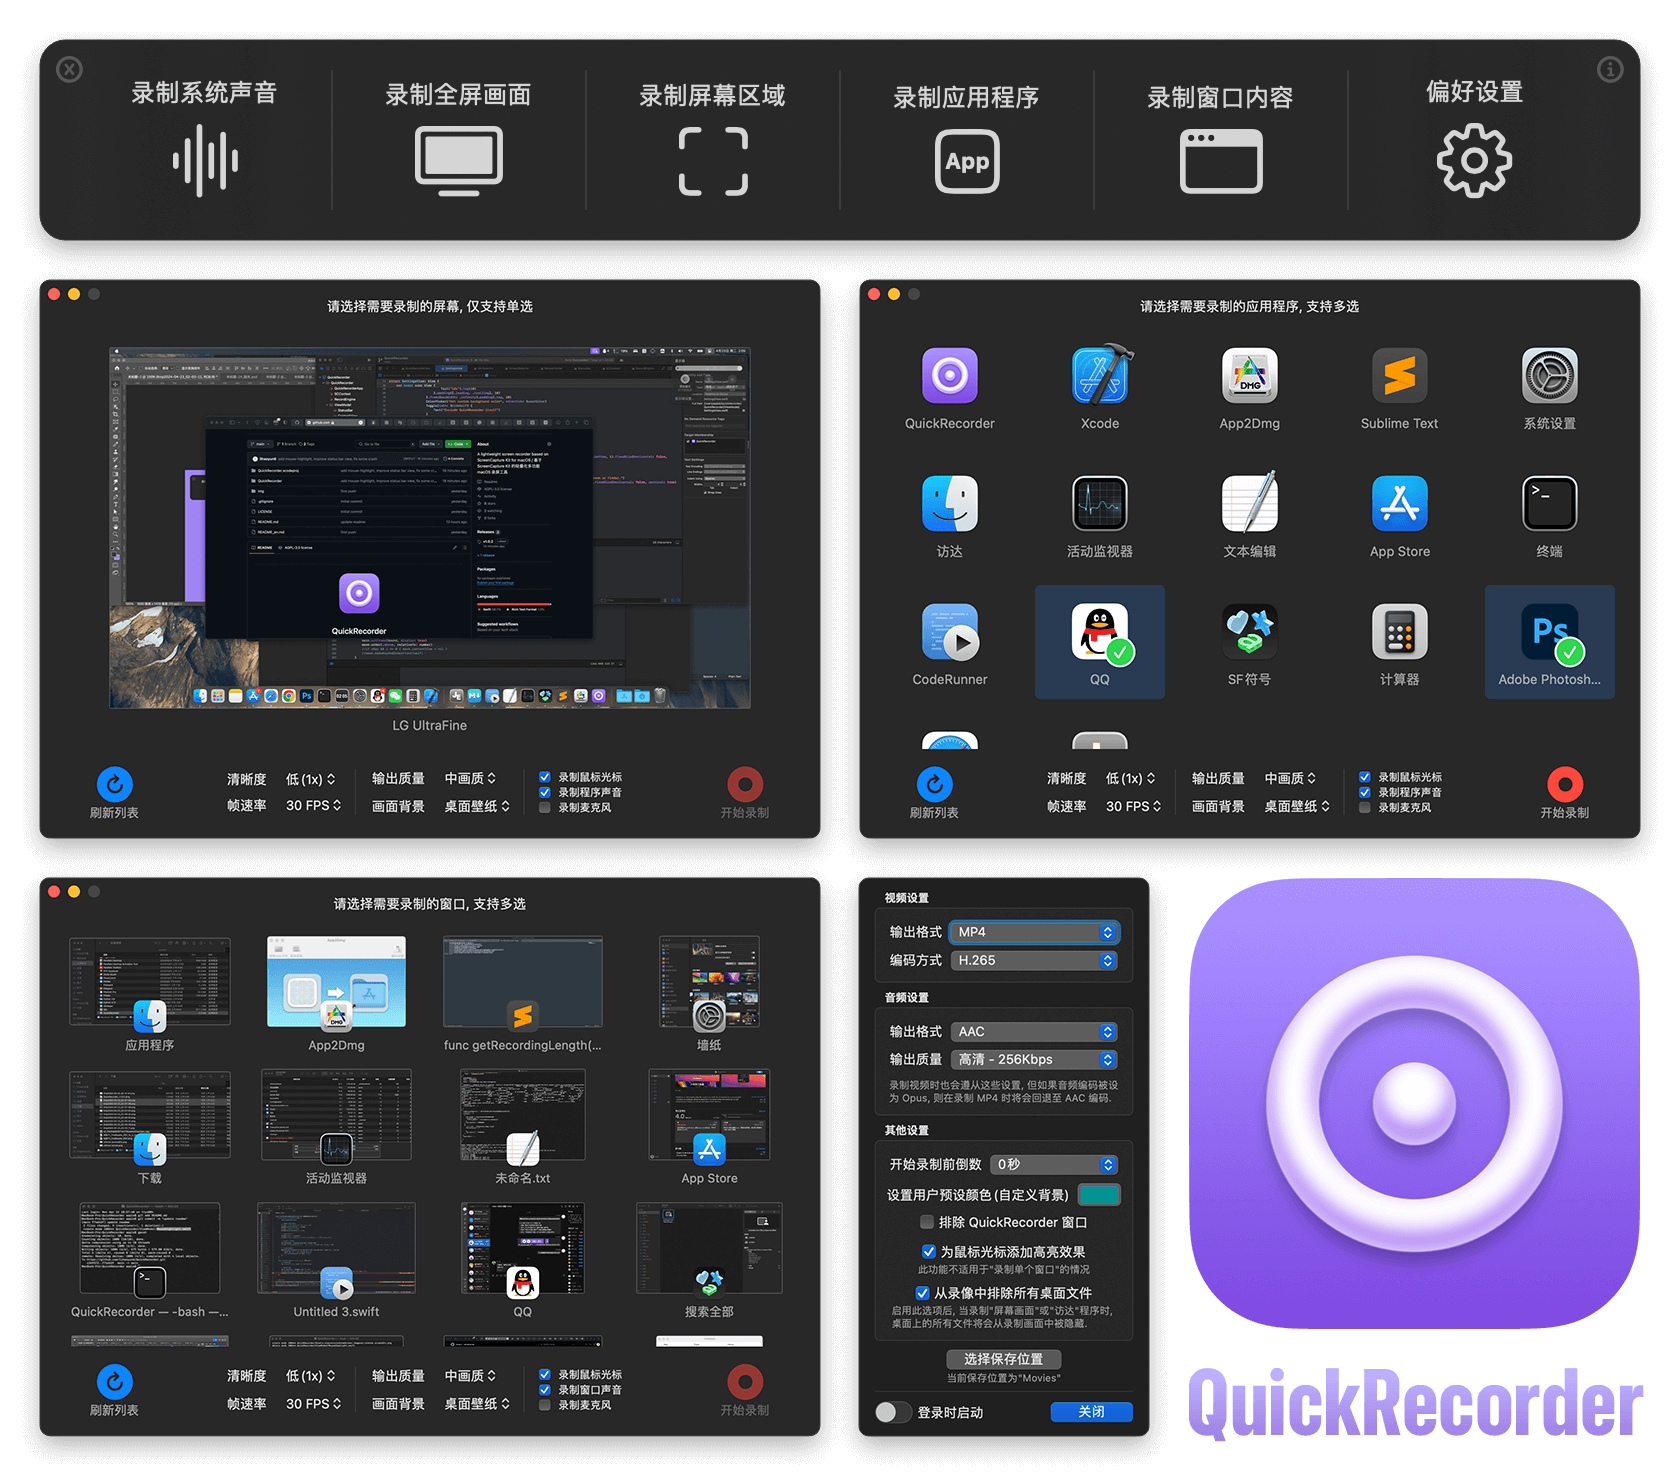
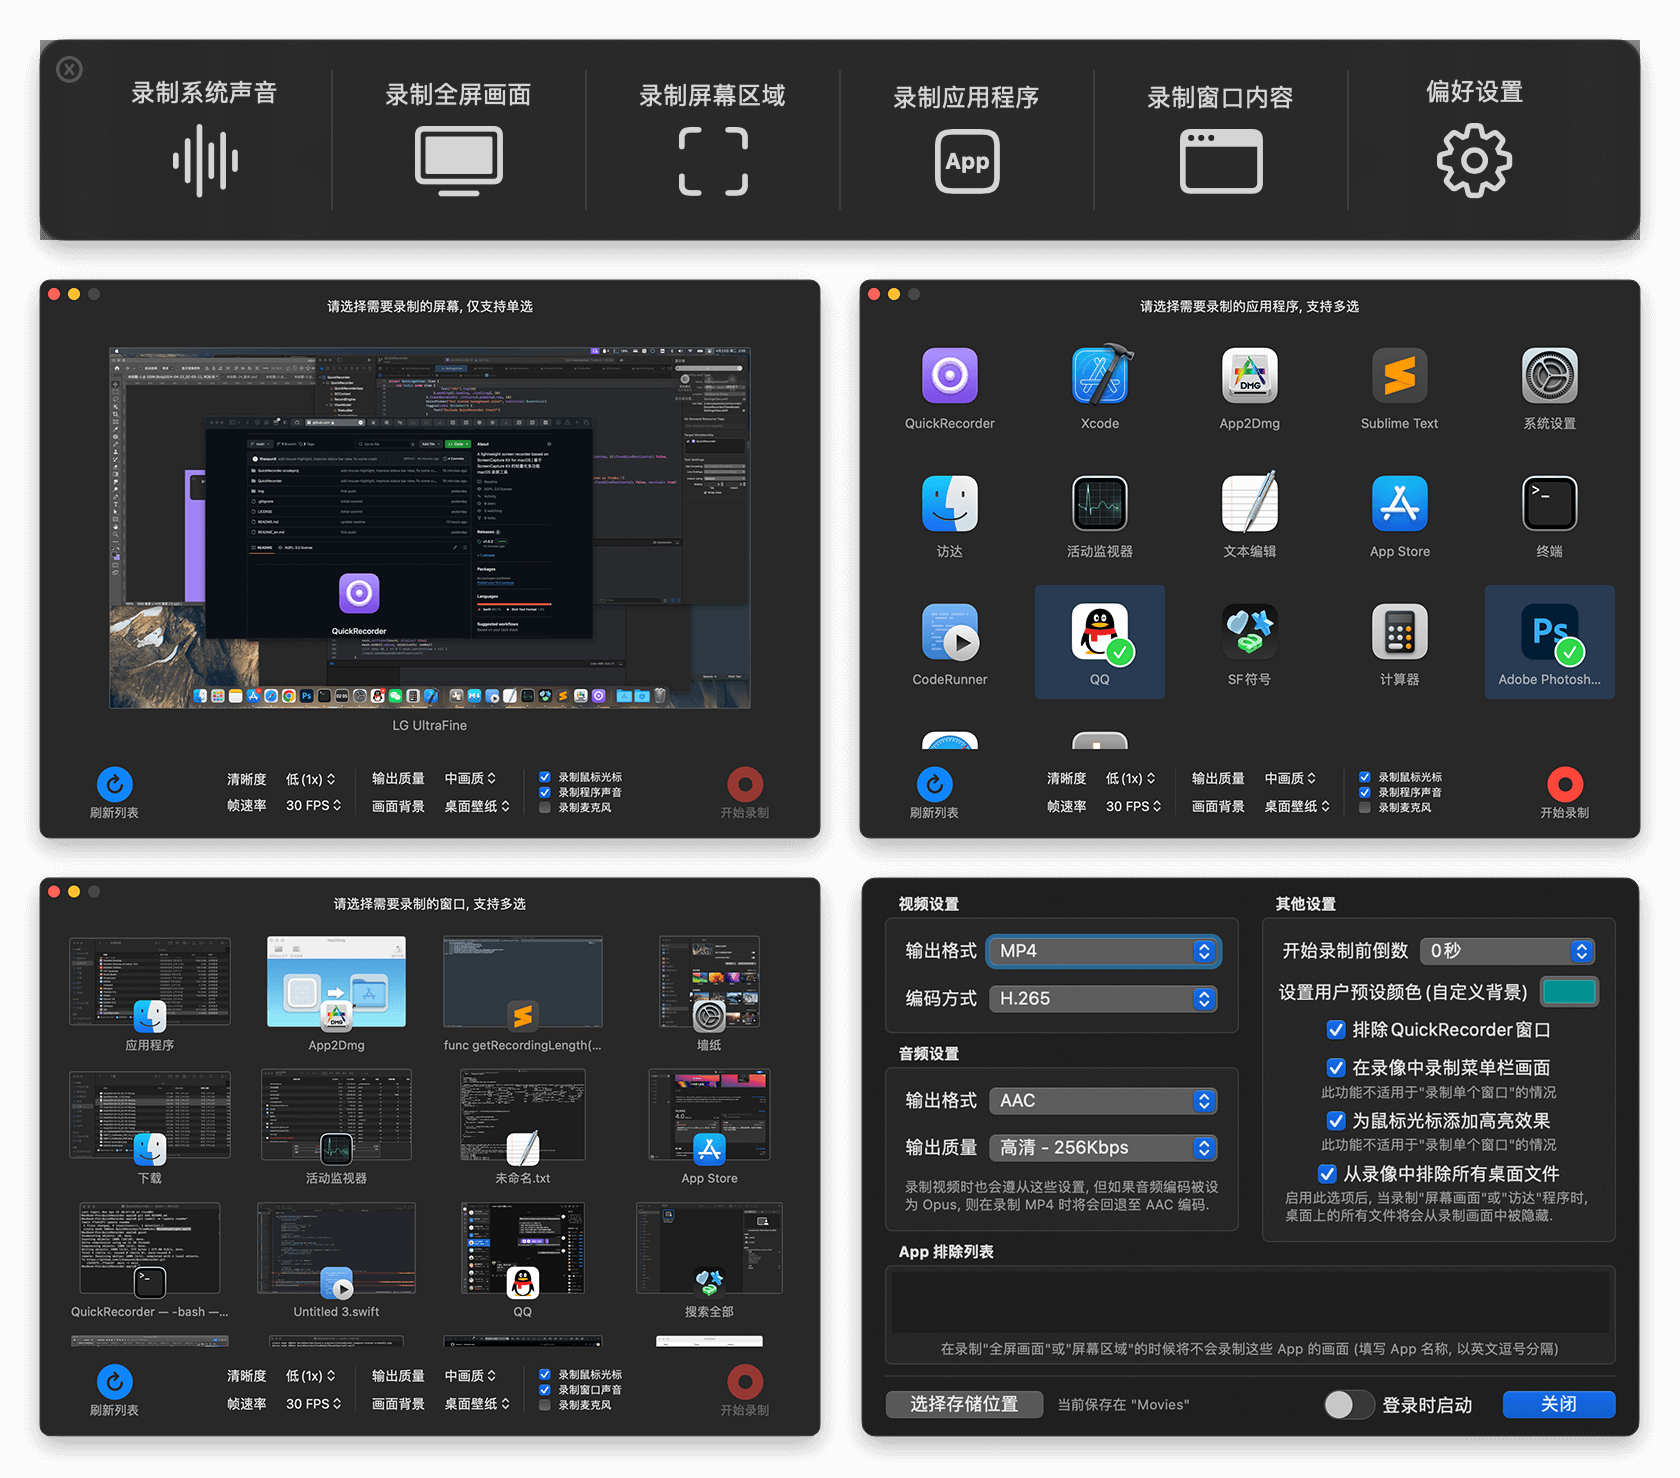
add app blacklist

Changed region(s): [[0.4952, 0.5913, 0.9905, 0.9959]]

diff --git a/QuickRecorder/ViewModel/SettingsView.swift b/QuickRecorder/ViewModel/SettingsView.swift
@@ -12,129 +12,137 @@ struct SettingsView: View {
     @Environment(\.presentationMode) var presentationMode
     @State private var userColor: Color = Color.black
     @State private var launchAtLogin = (SMAppService.mainApp.status == .enabled)
-    @AppStorage("audioFormat")   private var audioFormat: AudioFormat = .aac
-    @AppStorage("audioQuality")  private var audioQuality: AudioQuality = .high
-    @AppStorage("videoFormat")   private var videoFormat: VideoFormat = .mp4
-    @AppStorage("encoder")       private var encoder: Encoder = .h264
-    @AppStorage("hideSelf")      private var hideSelf: Bool = true
-    @AppStorage("countdown")     private var countdown: Int = 0
-    @AppStorage("saveDirectory") private var saveDirectory: String?
-    @AppStorage("hideDesktopFiles") private var hideDesktopFiles: Bool = false
+    @AppStorage("encoder")          private var encoder: Encoder = .h264
+    @AppStorage("videoFormat")      private var videoFormat: VideoFormat = .mp4
+    @AppStorage("audioFormat")      private var audioFormat: AudioFormat = .aac
+    @AppStorage("audioQuality")     private var audioQuality: AudioQuality = .high
+    @AppStorage("hideSelf")         private var hideSelf: Bool = true
+    @AppStorage("countdown")        private var countdown: Int = 0
+    @AppStorage("appBlackList")     private var appBlackList: String = ""
+    @AppStorage("saveDirectory")    private var saveDirectory: String?
     @AppStorage("highlightMouse")   private var highlightMouse: Bool = false
     @AppStorage("includeMenuBar")   private var includeMenuBar: Bool = false
-    
+    @AppStorage("hideDesktopFiles") private var hideDesktopFiles: Bool = false
     
     var body: some View {
         VStack {
-            VStack(alignment: .leading) {
-                GroupBox(label: Text("Video Settings".local).fontWeight(.bold)) {
-                    Form() {
-                        Picker("Format", selection: $videoFormat) {
-                            Text("MOV").tag(VideoFormat.mov)
-                            Text("MP4").tag(VideoFormat.mp4)
-                        }.padding([.leading, .trailing], 10)
-                        Picker("Encoder", selection: $encoder) {
-                            Text("H.264").tag(Encoder.h264)
-                            Text("H.265").tag(Encoder.h265)
-                        }.padding([.leading, .trailing], 10)
-                    }.frame(maxWidth: .infinity).padding(.top, 10).padding(.bottom, 7)
-                }
-                GroupBox(label: Text("Audio Settings".local).fontWeight(.bold)) {
-                    Form() {
-                        Picker("Format", selection: $audioFormat) {
-                            Text("AAC").tag(AudioFormat.aac)
-                            Text("ALAC (Lossless)").tag(AudioFormat.alac)
-                            Text("FLAC (Lossless)").tag(AudioFormat.flac)
-                            Text("Opus").tag(AudioFormat.opus)
-                        }.padding([.leading, .trailing], 10)
-                        Picker("Quality", selection: $audioQuality) {
-                            if audioFormat == .alac || audioFormat == .flac {
-                                Text("Lossless").tag(audioQuality)
-                            }
-                            Text("Normal - 128Kbps").tag(AudioQuality.normal)
-                            Text("Good - 192Kbps").tag(AudioQuality.good)
-                            Text("High - 256Kbps").tag(AudioQuality.high)
-                            Text("Extreme - 320Kbps").tag(AudioQuality.extreme)
-                        }.padding([.leading, .trailing], 10).disabled(audioFormat == .alac || audioFormat == .flac)
-                    }.frame(maxWidth: .infinity).padding(.top, 10)
-                    Text("These settings are also used when recording video. If set to Opus, MP4 will fall back to AAC.")
-                        .font(.footnote).foregroundColor(Color.gray).padding([.leading,.trailing, .bottom], 6).padding(.top, 1).fixedSize(horizontal: false, vertical: true)
-                }
-                GroupBox(label: Text("Other Settings".local).fontWeight(.bold)) {
-                    Form() {
-                        Picker("Recording Delay", selection: $countdown) {
-                            Text("0s").tag(0)
-                            Text("3s").tag(3)
-                            Text("5s").tag(5)
-                            Text("10s").tag(10)
-                        }.padding([.leading, .trailing], 10)
-                    }.frame(maxWidth: .infinity).padding(.top, 10)
-                    ColorPicker("Set custom background color", selection: $userColor)
-                    Toggle(isOn: $hideSelf) {
-                        Text("Exclude QuickRecorder itself")
+            HStack(alignment: .top, spacing: 17){
+                VStack(alignment: .leading) {
+                    GroupBox(label: Text("Video Settings".local).fontWeight(.bold)) {
+                        Form() {
+                            Picker("Format", selection: $videoFormat) {
+                                Text("MOV").tag(VideoFormat.mov)
+                                Text("MP4").tag(VideoFormat.mp4)
+                            }.padding([.leading, .trailing, .bottom], 10)
+                            Picker("Encoder", selection: $encoder) {
+                                Text("H.264").tag(Encoder.h264)
+                                Text("H.265").tag(Encoder.h265)
+                            }.padding([.leading, .trailing], 10)
+                        }.frame(maxWidth: .infinity).padding([.top, .bottom], 10)
+                    }//.padding(.bottom, 7)
+                    GroupBox(label: Text("Audio Settings".local).fontWeight(.bold)) {
+                        Form() {
+                            Picker("Format", selection: $audioFormat) {
+                                Text("AAC").tag(AudioFormat.aac)
+                                Text("ALAC (Lossless)").tag(AudioFormat.alac)
+                                Text("FLAC (Lossless)").tag(AudioFormat.flac)
+                                Text("Opus").tag(AudioFormat.opus)
+                            }.padding([.leading, .trailing, .bottom], 10)
+                            Picker("Quality", selection: $audioQuality) {
+                                if audioFormat == .alac || audioFormat == .flac {
+                                    Text("Lossless").tag(audioQuality)
+                                }
+                                Text("Normal - 128Kbps").tag(AudioQuality.normal)
+                                Text("Good - 192Kbps").tag(AudioQuality.good)
+                                Text("High - 256Kbps").tag(AudioQuality.high)
+                                Text("Extreme - 320Kbps").tag(AudioQuality.extreme)
+                            }.padding([.leading, .trailing], 10).disabled(audioFormat == .alac || audioFormat == .flac)
+                        }.frame(maxWidth: .infinity).padding(.top, 10)
+                        Text("These settings are also used when recording video. If set to Opus, MP4 will fall back to AAC.")
+                            .font(.footnote).foregroundColor(Color.gray).padding([.leading,.trailing], 6).padding(.bottom, 8).padding(.top, 4).fixedSize(horizontal: false, vertical: true)
                     }
-                    .padding(.bottom, 7)
-                    .toggleStyle(CheckboxToggleStyle())
-                    //.onChange(of: hideSelf) {_ in Task { if hideSelf { highlightMouse = false }}}
-                    if #available(macOS 14.2, *) {
-                        Toggle(isOn: $includeMenuBar) {
-                            Text("Include MenuBar")
+                }.frame(width: 260)
+                VStack(alignment: .center) {
+                    GroupBox(label: Text("Other Settings".local).fontWeight(.bold)) {
+                        Form() {
+                            Picker("Recording Delay", selection: $countdown) {
+                                Text("0s").tag(0)
+                                Text("3s").tag(3)
+                                Text("5s").tag(5)
+                                Text("10s").tag(10)
+                            }.padding([.leading, .trailing], 10)
+                        }.frame(maxWidth: .infinity).padding(.top, 10)
+                        ColorPicker("Set custom background color", selection: $userColor)
+                        //.onChange(of: hideSelf) {_ in Task { if hideSelf { highlightMouse = false }}}
+                        Toggle(isOn: $hideSelf) { Text("Exclude QuickRecorder itself") }
+                            .padding(.bottom, 4)
+                            .toggleStyle(CheckboxToggleStyle())
+                        if #available(macOS 14.2, *) {
+                            Toggle(isOn: $includeMenuBar) { Text("Include MenuBar") }
+                                .toggleStyle(CheckboxToggleStyle())
+                            Text("Not available for \"Single Window Capture\"")
+                                .font(.footnote).foregroundColor(Color.gray).padding([.leading,.trailing], 6).fixedSize(horizontal: false, vertical: true)
                         }
-                        .toggleStyle(CheckboxToggleStyle())
+                        Toggle(isOn: $highlightMouse) { Text("Highlight the mouse cursor") }
+                            .toggleStyle(CheckboxToggleStyle())
+                        //.onChange(of: highlightMouse) {_ in Task { if highlightMouse { hideSelf = false }}}
                         Text("Not available for \"Single Window Capture\"")
                             .font(.footnote).foregroundColor(Color.gray).padding([.leading,.trailing], 6).fixedSize(horizontal: false, vertical: true)
+                        Toggle(isOn: $hideDesktopFiles) { Text("Exclude the \"Desktop Files\" layer") }
+                            .toggleStyle(CheckboxToggleStyle())
+                        Text("If enabled, all files on the Desktop will be hidden from the video when recording Screen or Finder.")
+                            .font(.footnote).foregroundColor(Color.gray).padding([.leading,.trailing], 6).padding(.bottom, 8).fixedSize(horizontal: false, vertical: true)
                     }
-                    Toggle(isOn: $highlightMouse) {
-                        Text("Highlight the mouse cursor")
-                    }
-                    .toggleStyle(CheckboxToggleStyle())
-                    //.onChange(of: highlightMouse) {_ in Task { if highlightMouse { hideSelf = false }}}
-                    Text("Not available for \"Single Window Capture\"")
+                }.frame(width: 260)
+            }//.padding(.bottom, 0.5)
+            GroupBox(label: Text("Excluded Apps".local).fontWeight(.bold)) {
+                VStack(spacing: 5.5) {
+                    TextEditor(text: $appBlackList)
+                        .frame(minWidth: 0, maxWidth: .infinity, minHeight: 0, maxHeight: .infinity)
+                    Text("These apps will be excluded when recording \"Screen\" or \"Screen Area\" (app names separated by commas)")
                         .font(.footnote).foregroundColor(Color.gray).padding([.leading,.trailing], 6).fixedSize(horizontal: false, vertical: true)
-                    Toggle(isOn: $hideDesktopFiles) {
-                        Text("Exclude the \"Desktop Files\" layer")
-                    }.toggleStyle(CheckboxToggleStyle())
-                    Text("If enabled, all files on the Desktop will be hidden from the video when recording Screen or Finder.")
-                        .font(.footnote).foregroundColor(Color.gray).padding([.leading,.trailing, .bottom], 6).fixedSize(horizontal: false, vertical: true)
                 }
-                VStack(spacing: 2) {
+            }.frame(width: 537, height: 90).padding(.top, -8)
+            Divider()
+            HStack {
+                HStack(spacing: 10) {
                     Button(action: {
                         updateOutputDirectory()
                     }, label: {
                         Text("Select output directory").padding([.leading, .trailing], 10)
                     })
                     Text(String(format: "Currently set to \"%@\"".local, URL(fileURLWithPath: saveDirectory!).lastPathComponent)).font(.footnote).foregroundColor(Color.gray)
-                }.frame(maxWidth: .infinity).padding(.top, 1)
-                Divider()
-                HStack {
-                    VStack {
-                        HStack(spacing: 15){
-                            Toggle(isOn: $launchAtLogin) {}
-                                .offset(x: 10)
-                                .toggleStyle(.switch)
-                                .onChange(of: launchAtLogin) { newValue in
-                                    do {
-                                        if newValue {
-                                            try SMAppService.mainApp.register()
-                                        } else {
-                                            try SMAppService.mainApp.unregister()
-                                        }
-                                    }catch{
-                                        print("Failed to \(newValue ? "enable" : "disable") launch at login: \(error.localizedDescription)")
+                }.padding(.leading, 0.5)
+                Spacer()
+                VStack {
+                    HStack(spacing: 15){
+                        Toggle(isOn: $launchAtLogin) {}
+                            .offset(x: 10)
+                            .toggleStyle(.switch)
+                            .onChange(of: launchAtLogin) { newValue in
+                                do {
+                                    if newValue {
+                                        try SMAppService.mainApp.register()
+                                    } else {
+                                        try SMAppService.mainApp.unregister()
                                     }
+                                }catch{
+                                    print("Failed to \(newValue ? "enable" : "disable") launch at login: \(error.localizedDescription)")
                                 }
-                            Text("Launch at login")
-                        }
-                    }.padding(.leading, -10)
-                    Spacer()
-                    Button(action: {
-                        presentationMode.wrappedValue.dismiss()
-                    }, label: {
-                        Text("Close").padding([.leading, .trailing], 20)
-                    }).keyboardShortcut(.defaultAction)
-                }.padding(.top, 1.5)
-            }.frame(width: 260).padding([.leading, .trailing], 16).padding([.top, .bottom], 13)
+                            }
+                        Text("Launch at login")
+                    }
+                }.padding(.trailing, 14)
+                Button(action: {
+                    presentationMode.wrappedValue.dismiss()
+                }, label: {
+                    Text("Close").padding([.leading, .trailing], 20)
+                }).keyboardShortcut(.defaultAction)
+            }.padding(.top, 1.5)
+            
+                
         }
+        .padding([.leading, .trailing], 17).padding([.top, .bottom], 12)
         .onAppear{ userColor = ud.color(forKey: "userColor") ?? Color.black }
         .onDisappear{ ud.setColor(userColor, forKey: "userColor") }
     }

diff --git a/QuickRecorder/RecordEngine.swift b/QuickRecorder/RecordEngine.swift
@@ -44,6 +44,11 @@ extension AppDelegate {
         let dockWindow = SCContext.availableContent!.windows.first(where: { $0.title == "Dock" && $0.owningApplication?.bundleIdentifier == "com.apple.dock" })
         let desktopFiles = SCContext.availableContent!.windows.filter({ $0.title == "" && $0.owningApplication?.bundleIdentifier == "com.apple.finder" })
         let mouseWindow = SCContext.availableContent!.windows.filter({ $0.title == "Mouse Pointer".local && $0.owningApplication?.bundleIdentifier == Bundle.main.bundleIdentifier })
+        let appBlackList = ud.string(forKey: "appBlackList")?.split(separator: ",").map{ $0.trimmingCharacters(in: .whitespacesAndNewlines) }
+        let excliudedApps = SCContext.availableContent!.applications.filter({
+            guard let apps = appBlackList else { return false }
+            return apps.contains($0.applicationName)
+        })
         
         if SCContext.streamType == .window || SCContext.streamType == .windows {
             if var includ = SCContext.window {
@@ -59,8 +64,9 @@ extension AppDelegate {
             }
         } else {
             if SCContext.streamType == .screen || SCContext.streamType == .screenarea || SCContext.streamType == .systemaudio {
-                let excluded = [SCRunningApplication]()
+                var excluded = [SCRunningApplication]()
                 var except = [SCWindow]()
+                excluded += excliudedApps
                 if ud.bool(forKey: "hideSelf") { if let qrWindows = qrWindows { except += qrWindows }}
                 if ud.bool(forKey: "removeWallpaper") { if dockApp != nil { except += wallpaper}}
                 if ud.bool(forKey: "hideDesktopFiles") { except += desktopFiles }

diff --git a/QuickRecorder/QuickRecorderApp.swift b/QuickRecorder/QuickRecorderApp.swift
@@ -105,6 +105,7 @@ class AppDelegate: NSObject, NSApplicationDelegate, SCStreamDelegate, SCStreamOu
         
         ud.register( // default defaults (used if not set)
             defaults: [
+                "appBlackList": "",
                 "audioFormat": AudioFormat.aac.rawValue,
                 "audioQuality": AudioQuality.high.rawValue,
                 "background": BackgroundType.wallpaper.rawValue,
